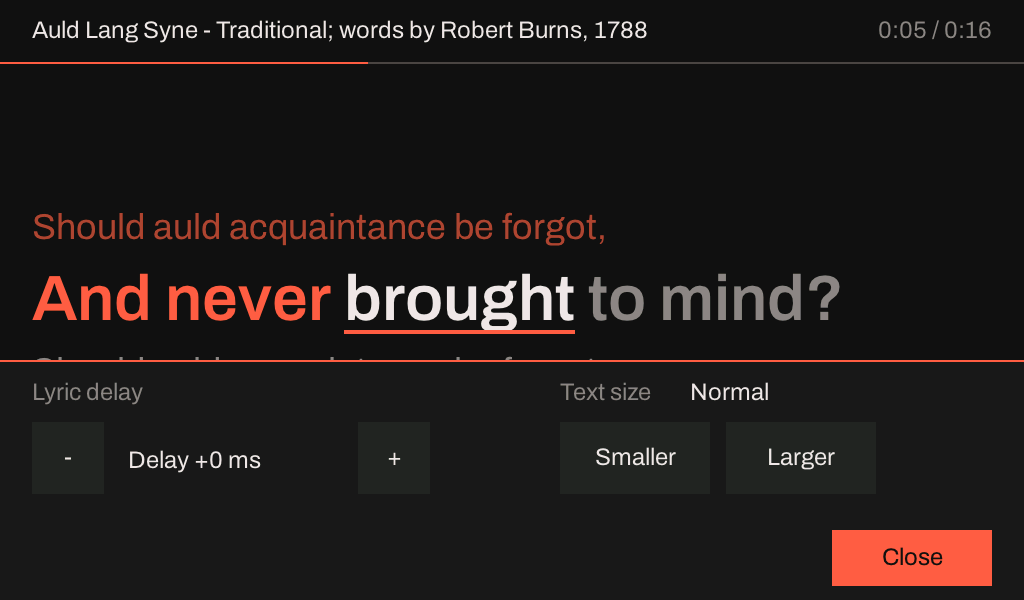
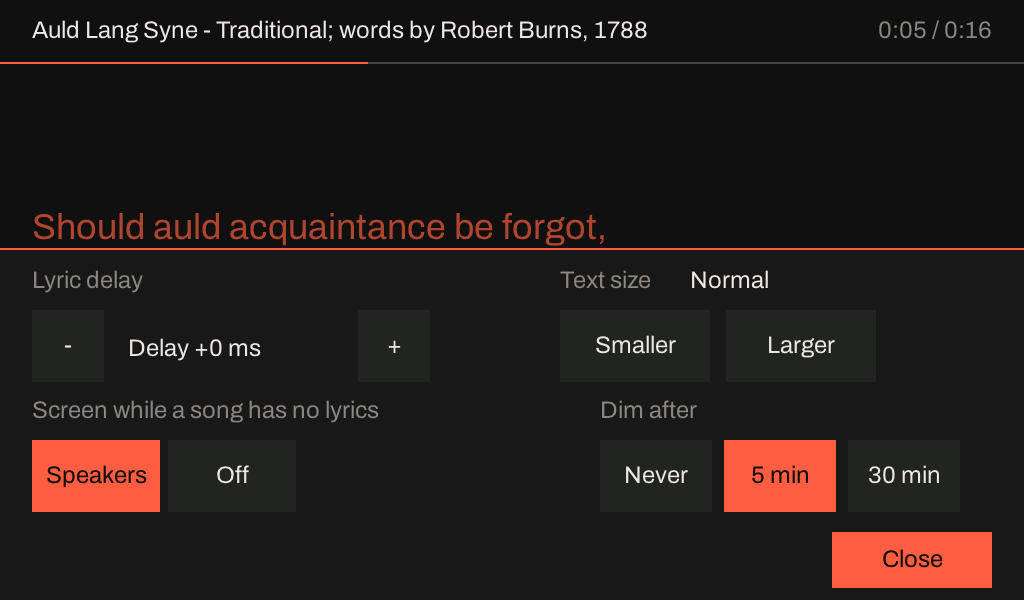
docs(esp32): what the P4X's panel shows while a song has no lyrics, with its pictures
planning/p4x-now-playing.md is the design: what the board knows while a song plays and what it does
not (no title, no artwork, no clock: the sink lists no server role for them and nothing sets the time),
what the glass costs, the options as they were drawn and shown to the owner on 2026-10-20, the owner's
choice of 2026-10-21 (speakers, title card and clock selectable, on by default, a taller sheet, dim
after five minutes and a tap wakes it), how stage 1 is built and what stages 2 and 3 need. The guide's
screen section gains the speakers, the dimmed screen and the two routes; the sheet of every screen has
a new row; the controls picture shows the taller sheet.

diff --git a/planning/p4x-now-playing.md b/planning/p4x-now-playing.md
@@ -1,0 +1,179 @@
+# What the P4X's panel shows while a song with no lyrics plays
+
+!!! note "Status as of 2026-10-21: chosen by the owner; stage 1 built; stages 2 and 3 not started"
+    The panel of [the P4X sink](karaoke-p4x-panel.md) draws the lyrics of the item playing, and the
+    idle screen when nothing plays. A song with no lyrics (most of what a music server plays, and
+    every surround programme that is not karaoke) had one sentence: "No lyrics for this item". The
+    owner, on 2026-10-20: *"on the P4X, when we are not serving lyrics, what should we put on the
+    screen? ... What can we put on the screen that isn't super distracting, and maybe in Adjust we can
+    turn it on, turn it off."* This page is what the board knows while a song plays, the options that
+    were drawn and shown, what the owner chose on 2026-10-21, and how it is built.
+
+    | Stage | What | State |
+    |---|---|---|
+    | 1 | The setting (`GET` and `PUT /now-playing`, `/dim-after`, the Adjust sheet), the **speakers** view, dimming | Built; run on the kit: see [On the kit](#on-the-kit) |
+    | 2 | The **title card**: the sink asks the server for `metadata@v1` and draws what it sends | Not started; [what it needs](#stage-2-the-title-card) |
+    | 3 | The **clock**: the board gets the time and a time zone | Not started; [what it needs](#stage-3-the-clock) |
+
+## What the board knows while a song plays
+
+Read from the code, 2026-10-20; the levels and the layout are the Sendspin player's own status
+(`BurstPlayer::status()`, `firmware/esp-idf/iclforge/include/iclforge/burst_player.hpp`), which the
+kit's `GET /status` already reports.
+
+| Fact | Where it comes from | Known |
+|---|---|---|
+| Each output's peak and RMS over the last 100 ms, in dB of full scale | The burst player's output stage, one pair per output slot, closed every 100 ms | **Yes**, for a coded stream and for PCM |
+| The layout in force, and where each of its speakers is (azimuth, elevation, which is the LFE) | `OutputLayout` (`libs/render/include/iclforge/render/layout.hpp`): a name ("5.1", "7.1.4") or a list | **Yes** |
+| The codec, the coded channel layout (`acmod`, LFE) and the objects a stream carries | The decoder's report, once a unit has decoded | **Yes** for Dolby Digital, Digital Plus and AC-4; PCM has none |
+| The volume | The player's own state | Yes (not used by the screen) |
+| Title, artist, album, the year, **the position in the song and its length** | `metadata@v1` | **No.** The sink's hello lists `_iclforge_player@v1` and `player@v1` and nothing else, so no server sends it. Without lyrics there is no document to carry a title either: the screen's old title line was cleared whenever no lyrics were held, so the sentence **never** showed one |
+| Cover art | `artwork@v1` | **No**, for the same reason, and the board has no image decoder in the image |
+| The time of day | A clock | **No.** Nothing in the firmware sets one (no SNTP, no time zone); a server's clock in Sendspin is a monotonic one, not wall time |
+
+So the one view that needs nothing new is the one that shows the speakers, and it is the one that
+only this board can show: a server does not know what the board is playing to.
+
+## What it may cost
+
+The panel's scan-out reads the frame out of PSRAM sixty times a second whatever is drawn, and that
+is nearly all of what the glass costs a heavy stream: **a tenth of the decoder's time for AC-4 5.1,
+and at layout 5.1 five of eighteen plays glitched with the glass on against one of thirty without a
+scan-out** ([the second session on the kit](karaoke-p4x-panel.md#the-second-session-on-the-kit)).
+Two things follow.
+
+- **Drawing less is not the saving.** A screen that is almost black still costs its scan-out. A
+  view's own cost is its drawing, and it has to stay small: the lyric screen's song filling cost the
+  light streams 5 to 12% of their decode time and the heavy one 0.1 to 1%.
+- **Nothing about a dark screen is known to save the scan-out.** Dimming turns the backlight down;
+  whether the DSI engine can be stopped while the screen is dark (which would make a dark screen
+  the cheapest of all, and might be worth something to the AC-4 5.1 glitches) has not been tried.
+
+How much a view redraws was counted on a computer, which is exact for pixels and says nothing about
+time: the pixels LVGL flushes a second over a minute of sample levels moving as music moves them
+(`panel_preview`, "measure", from the prototype). A **continuous fade** of each speaker's glow in a
+7.1.4 room flushed 1.7 million pixels a second, nine times the lyric screen's song filling (192,000);
+the glow in **five steps, five times a second, with a quarter-step margin before it changes**
+flushed 45,000 (5.1) and 81,000 (7.1.4). That is what stage 1 draws. The kit's own cost is in [On the
+kit](#on-the-kit).
+
+## The options
+
+Drawn on 2026-10-20 from a prototype of each, by the firmware's own screen code
+(`firmware/hearth-sink/preview`); the cover is a placeholder, and the title, the levels and the clock
+are sample data. The prototype is not in the repository: stage 1's view is its speakers view, written
+again, and the others are rebuilt for the stages that need them.
+
+![Today's sentence and five options: speakers, a title card, a cover with the title, a clock, and a dark screen](../docs/hearth/screenshots/p4-now-playing-options.png)
+
+| | Option | Honest today? | Quiet in a dim room? | Cost |
+|---|---|---|---|---|
+| | **Today** | Yes, and says nothing | No: 56 px bright type, and a delay chip that does nothing | Nil |
+| A | **Speakers**: the layout seen from above, each speaker glowing with its own level; a speaker with nothing on it goes hollow | **Yes**, all of it from the board's own status | Yes, if the glow is slow and capped (accent at 55% at its loudest) | A few small redraws; see above |
+| B | **Title card**: title, artist, album, a thin progress line | Only when the server sends them | Yes: text, no motion but the line | The role, its parse, a small copy |
+| C | **Cover and title** | Only with the artwork role, and a decode | The brightest thing a screen can show | A decoder, 260 KB of PSRAM a cover, unmeasured |
+| D | **Clock** | Only with a clock the board does not have | Yes | SNTP, a time zone setting, and the board asking the network for the time |
+| E | **Dark**: backlight to a floor, one line, a touch wakes it | Yes | The quietest | Nothing drawn, but the scan-out stays |
+
+## The decision
+
+The owner, 2026-10-21, after seeing the pictures:
+
+- **Which view:** the owner chooses between **speakers, title card and clock** in Adjust (the cover
+  is not wanted).
+- **On or off out of the box:** **on**, showing the speakers. Off is the old sentence.
+- **Where it lives:** the Adjust sheet gets a **third row and is taller** (352 px, not 240), not a
+  second page.
+- **Dimming:** after **5 minutes** with nothing touched the screen goes to **E**, the dark screen,
+  and **any tap wakes it**. No swipe: there is one view at a time, chosen in Adjust.
+
+What the decision leaves for the stages: the title card and the clock are in the sheet's list only
+once the board can draw them, and `PUT /now-playing title` and `clock` answer 409 until then.
+
+## Stage 1, as built
+
+**The setting.** Two stored values, in NVS beside the others (`np_view`, `np_dim`), read at boot and
+followed at once when they change, with no restart:
+
+| Route | Takes | Default |
+|---|---|---|
+| `GET` and `PUT /now-playing` | `speakers`, `title`, `clock` or `off` | `speakers` |
+| `GET` and `PUT /dim-after` | `never`, or whole minutes from 1 to 240 | `5` |
+
+Both are in the control surface's route list (`GET /api`) on a board that has a panel and answer 404
+on one that has none. A stored number this build does not know (a partition written by a later
+image) is said on the console and the default stands. The sheet's buttons make the same change and
+store it, and the sheet shows what the routes set.
+
+**The speakers view.** The layout in force, from above, front at the top, left on the left
+(`libs/render/include/iclforge/render/room_plan.hpp`, 14 host test cases): ear-level speakers are
+circles, height speakers rounded squares pulled in towards the listener by the cosine of their
+elevation, the LFE a wide box along the bottom, each named inside its shape. Where two would touch
+(a 9.1.6 room has a ceiling speaker over the listener) they are pushed apart; every layout the
+grammar can name is tested to draw no two on each other. A speaker's **core** follows its RMS and its
+**halo** its peak, each in a few steps; an output with nothing on it is a hollow outline, so a dead
+centre is seen. The level rises at once and falls at 14 dB a second (the peak at 30), so the glow
+does not follow every 100 ms window.
+
+The header says what arrives and what it plays on: *Dolby Digital Plus 5.1 to 7.1.4*, *PCM to 2.0*
+(`libs/device/include/iclforge/now_view.hpp`, 11 host test cases). A layout given as a list of
+speakers, too long to say, is "6 outputs". The lyric delay chip in the footer is not shown: it does
+nothing without lyrics.
+
+**Dimming.** With the speakers showing, and nothing touched for the time set (counted from the last
+touch or from when the speakers began to show, whichever is later, so a song started on a panel
+nobody has touched for hours does not start dark), the backlight goes to 4% and a black cover with
+one line over everything (*Playing - Dolby Digital Plus 5.1 to 5.1*). The cover is the object a
+touch lands on, so the tap that wakes the screen does not press a button under it; the touch is
+activity, and the next frame takes the cover away and puts the backlight back to 80%. Dimming is for
+this screen only: the lyric screens and the idle screen are not dimmed (see [Open](#open)).
+
+**What the screen reads.** `sendspin_now_playing()` (`sendspin.hpp`): one read of the player's status
+under its own lock, five times a second, copied into a buffer that keeps its capacity so that a read
+allocates nothing from the heap a decoder leaves little of. The room is parsed again only when the
+layout text changes.
+
+![The speakers in a 5.1 room](../docs/hearth/screenshots/p4-panel-speakers-5-1.png)
+![The speakers in a 7.1.4 room](../docs/hearth/screenshots/p4-panel-speakers-7-1-4.png)
+![The Adjust sheet with its third row](../docs/hearth/screenshots/p4-panel-controls.png)
+![The dark screen](../docs/hearth/screenshots/p4-panel-dimmed.png)
+
+## Stage 2: the title card
+
+The sink lists `metadata@v1` in its hello. The player's session already runs the role for a client
+that lists it (`libs/sendspin/src/player_session.cpp`: the `server/state` object reaches
+`PlayerListener::on_server_state()`), and `kSinkMaxJsonTokens` (512) covers the largest message a
+server sends. What is new on the board is a small store of what it says (title, artist, album,
+progress with the duration) under the player's lock, and the view. The song's position is the
+state's `progress` advanced on the board's own clock (`metadata::position_ms`). Music Assistant sends
+the role to a client that lists it; **the first run with the owner's server decides what it sends**,
+and the view says nothing it was not told. Until the role is listed no server sends anything, so
+the title card would be empty: that is why it waits.
+
+When the title is known the speakers view uses it too: the header becomes *Title - Artist* with the
+time at the right and the progress line under it, as the lyric screens' header is.
+
+## Stage 3: the clock
+
+The board has no time. What stage 3 adds, with the defaults I would take and the owner can change:
+
+- **SNTP, started only when the clock view is the one chosen** (the board contacts no time server
+  otherwise), with the servers the router hands out over DHCP and `pool.ntp.org` behind them.
+- **A time zone** as a POSIX string (`AEST-10AEDT,M10.1.0,M4.1.0/3`), stored in NVS and set by
+  `PUT /timezone`; with none set the clock says UTC and says so. IDF has no zone database, and a
+  list of names would be a table to keep.
+- A 24-hour clock and the date, in the muted tone; until the first answer from a time server the
+  view shows nothing but the stream's heading, and never a time it made up.
+
+## Open
+
+- **The idle screen is not dimmed.** It is on for hours too (Q7 of the panel's plan). The owner's
+  answer was about this screen; whether idle follows is a question for the owner.
+- **Does a dark screen save the scan-out?** Stopping the DSI engine while the cover is up is the
+  experiment; the kit's AC-4 5.1 glitches are the reason to try it.
+- **Brightness** is still not a setting (plan D6): the sheet has room for a fourth row only by being
+  taller again or by a second page.
+
+## On the kit
+
+*To be filled with what was run on the kit: see the pull request.*

diff --git a/docs/hearth/sink-esp32-p4.md b/docs/hearth/sink-esp32-p4.md
@@ -135,7 +135,7 @@ the first slot, and its cause is not known.
 
 ### The screen
 
-![The panel's screens on one sheet: singing, a duet, an instrumental break, a file timed by line, Hebrew, Russian and Greek, a script the fonts lack, idle with no server, with a pairing code and connected, held and not started, no lyrics, plain text, and the controls](screenshots/p4-panel-sheet.png)
+![The panel's screens on one sheet: singing, a duet, an instrumental break, a file timed by line, Hebrew, Russian and Greek, a script the fonts lack, idle with no server, with a pairing code and connected, held and not started, no lyrics with the screen off, plain text, the controls, and the speakers while a song has no lyrics and dimmed](screenshots/p4-panel-sheet.png)
 
 The board shows the lyrics of the item playing, against the sound **the board** is playing: the
 server sends the document and where in it the sound is, and the board follows on its own clock, which
@@ -161,12 +161,47 @@ apart. The picture above and the others on this page are drawn by the firmware's
 | ![Russian and Greek](screenshots/p4-panel-cyrillic-greek.png) | **Cyrillic or Greek.** Drawn as Latin is, in Noto Sans behind Archivo, with the same fill |
 | ![A script the fonts lack](screenshots/p4-panel-script.png) | **A script the fonts cannot draw** (Arabic here). One sentence in the line's place; the title in it is left out; a music note is dropped |
 | ![Plain text](screenshots/p4-panel-plain.png) | **A file with no times.** The text, scrolled by touch, not followed |
-| ![No lyrics](screenshots/p4-panel-no-lyrics.png) | **Playing, and the server sent no lyrics** |
-| ![The controls](screenshots/p4-panel-controls.png) | **Adjust.** The lyric delay in 50 ms steps and the text size; put away after eight seconds untouched |
+| ![The speakers](screenshots/p4-panel-speakers-5-1.png) | **Playing, and no lyrics are held** ([below](#a-song-with-no-lyrics)). The speakers of the layout in force, each glowing with its own level |
+| ![No lyrics](screenshots/p4-panel-no-lyrics.png) | **The same with that screen turned off.** The sentence this screen had before |
+| ![The controls](screenshots/p4-panel-controls.png) | **Adjust.** The lyric delay in 50 ms steps, the text size, the screen for a song with no lyrics and when it dims; put away after eight seconds untouched |
 
 **Controls.** Touch changes only what the board owns: its lyric delay (±1,000 ms), its text size
-(Smaller, Normal or Larger, which the sheet says beside its buttons), and (later) its brightness. Which vocals sound and the reproduction are the server's settings and are
+(Smaller, Normal or Larger, which the sheet says beside its buttons), what its screen shows while a
+song has no lyrics, when that dims, and (later) its brightness. Which vocals sound and the reproduction are the server's settings and are
 shown, not changed, until the role has a way to carry a request back.
+
+#### A song with no lyrics
+
+Most of what is played has none. While a stream plays and the board holds no lyrics, the panel shows
+the **speakers**: the room the layout in force describes, seen from above with the front at the top.
+Ear-level speakers are circles, height speakers rounded squares, the LFE a wide box along the bottom,
+and each speaker glows with its own level, from the board's own measure of the last 100 ms. A
+speaker with nothing on it is a hollow outline, so a dead output can be seen. The line above says
+what arrives and what it is played on (*Dolby Digital Plus 5.1 to 7.1.4*, *PCM to 2.0*).
+
+![The speakers in a 7.1.4 room](screenshots/p4-panel-speakers-7-1-4.png)
+
+It is meant to be left on for hours in a dim room: the glow moves in a few steps, slowly (it rises
+at once and falls at 14 dB a second), and is never brighter than the accent at 55%. **After five
+minutes with nothing touched** (the time is Adjust's, or `PUT /dim-after`: `never`, or whole minutes
+from 1 to 240) the backlight goes to 4% and a black screen with one line is over everything; any tap
+brings the speakers back, and the tap does not also press what is under it. Only this screen dims:
+the lyric screens and the idle screen do not.
+
+![The dimmed screen](screenshots/p4-panel-dimmed.png)
+
+Which screen shows is the owner's: `speakers` (the default) or `off`, which is the old sentence;
+`title` (title, artist and a progress line, once the sink asks the server for them) and `clock` (once
+the board has the time) are planned and refused until then
+([planning/p4x-now-playing.md](https://github.com/iainchesworthlabs/iclforge/blob/main/planning/p4x-now-playing.md)).
+
+| Route | Takes | Default |
+|---|---|---|
+| `GET` and `PUT /now-playing` | `speakers`, `title`, `clock` or `off` | `speakers` |
+| `GET` and `PUT /dim-after` | `never`, or minutes from 1 to 240 | `5` |
+
+Both are stored on the board and take effect at once, with no restart; a board with no panel answers
+404. `GET :8081/panel` says which `view` is chosen and whether the screen is `dimmed`.
 
 **Fonts.** Archivo, the apps' own, for Latin (Basic, Latin-1 and Extended-A, most of Extended-B and
 the Vietnamese block, and the punctuation and currency signs a lyric uses); Noto Sans behind it for

diff --git a/planning/karaoke-p4x-panel.md b/planning/karaoke-p4x-panel.md
@@ -326,7 +326,7 @@ wrap past two rows, so a long line stays whole rather than scrolling.
 | S4 | **Instrumental gap** | Between lines (or before the first) for 4 s or more | A single large music note and four dots that go out one a second, so a singer sees the next line coming; the next line is shown under it |
 | S5 | **Line-timed** | The file times lines, not words | The current line whole, in accent, bold; nothing invented for the words (the rule since phase 1) |
 | S6 | **Plain text** | The file has no times | The text, scrollable by touch, not followed; a chip says "not timed" |
-| S7 | **No lyrics** | Playing, none held | The item's title if the server sent one, "No lyrics for this item" |
+| S7 | **No lyrics** | Playing, none held | **The speakers** of the layout in force, each glowing with its own level; the owner's choice of view, and "No lyrics for this item" when it is off: [planning/p4x-now-playing.md](p4x-now-playing.md). (The title was never shown: the board is sent none without a lyrics file.) |
 | S8 | **Right to left** | A line whose first strong letter is Hebrew | Right-aligned, words flow right to left, the fill runs right to left within a word |
 | S8b | **A script the fonts lack** | A line with a letter the six font files do not carry (Arabic, CJK, Indic, Thai, polytonic Greek) | One sentence in its place, "This line is in a script this screen cannot show."; the title in it is left out; a music note is dropped |
 | S9 | **Controls sheet** | A tap on the gear | Lyric delay - / +, text size, brightness, next lines; 72 px targets; it hides itself after 8 s |
@@ -840,7 +840,7 @@ and then joins the Wi-Fi, the cable going on asking).
 | Q4 | Tearing with one frame buffer | The kit; two buffers cost 1.2 MB of PSRAM. **Looked at 2026-10-20**: the owner watched a karaoke play, with the Adjust sheet in use, and said it appeared and looked fine; no tearing was reported, and it was not filmed or measured. Not settled for a fast-moving fill |
 | Q5 | PSRAM bandwidth under the decoder's XIP fetches | **Answered on the kit 2026-10-20**: the glass costs the decoder a standing 1.3% (AC-3), 5.9% (E-AC-3) and about 10% (AC-4 5.1) against `panel-null`, and filling the screen adds drawing cost that is 5 to 12% on the light streams and 0.1 to 1% on AC-4 5.1 ([the second session](#the-second-session-on-the-kit)). At layout 5.1 the AC-4 stream glitched on 5 of 18 plays with the glass against 1 of 30 without a scan-out. Not tried: a slower refresh |
 | Q6 | A touch control for the vocals needs the role to carry a request back to the server | A protocol decision, its own PR |
-| Q7 | Auto-dim and a screensaver for a screen that is on for hours | Product, after the kit; the backlight PWM is there |
+| Q7 | Auto-dim and a screensaver for a screen that is on for hours | **Answered for the no-lyrics screen, 2026-10-21**: after 5 minutes with nothing touched it goes to a dark screen and a tap wakes it ([planning/p4x-now-playing.md](p4x-now-playing.md)); the lyric screens and the idle screen do not dim, which is open |
 | Q8 | CJK, Arabic and polytonic Greek | A font subset and shaping; not in this work (Greek and Cyrillic are in, 2026-10-12) |
 | Q9 | The image links LVGL (MIT) and three OFL fonts and ships no notices file of its own, as it does not for mbedTLS or `esp_hosted` | **Answered for the font and LVGL, 2026-10-12** (the owner: the font's licence goes where the licences are shown): Hearth's NOTICES.txt, which its About, Licences shows, names LVGL and the three typefaces (`hearth-lvgl.txt`, `hearth-fonts.txt`), and `check_hearth_package.py` requires them. The ESP-IDF components the images carry (Apache-2.0 and others, with picolibc's many BSD-style licences, LVGL's stb_truetype, and the Montserrat font LVGL's default theme links) are in the same notices, in `hearth-firmware.txt` and `notices/licences/ESP-IDF-components.txt` (made by `tools/generators/gen_esp_idf_notices.py` from an ESP-IDF checkout and the lvgl component; `tools/ci/test_firmware_notices.py` fails when the ESP-IDF the workflows build with is another) |
 | Q10 | The lyric **document** the player holds is in internal RAM, about six times its text once held and ten at the peak (measured by the lyrics verification session on 2026-10-12: P4a at 233 KB free, a 16,000-byte document left 66 KB and once broke the play; S3 and C6 far less). The screen's own copies (the visible rows, a file with no times as plain text, the title and the names) are in LVGL's heap, which is PSRAM (`main/panel/lvgl/lv_alloc.hpp`: `LvString`, `LvVector`, `LvMap`), as is the plain-text label it builds, so a 12,000-byte text takes none of the internal RAM the decoder leaves; the document is the player's, and a PSRAM arena for it is the fix on a board that has the PSRAM (the lyrics verification session's `PsramScope`, #1396) | The player's lyrics budget (that session's change in `sendspin.cpp`), then an arena |

diff --git a/firmware/hearth-sink/README.md b/firmware/hearth-sink/README.md
@@ -528,6 +528,10 @@ configurations set 80; the default is 0, none), the component's
 | `PUT /network` | body: an SSID, a newline, then the passphrase. Stored for the next boot; the station stays on the network it is already associated with. Improv over the serial port is the other way in, and the one a board with no network at all needs. |
 | `GET /network-preference` | `auto`, `ethernet` or `wifi`, as text, on a board with a cable and a Wi-Fi station ([Ethernet](#ethernet)); `404` on a board with one network |
 | `PUT /network-preference` | body: `auto`, `ethernet` or `wifi`. Stored, and acted on at once with no restart. `400` for any other word, `409` where there is nothing to choose between, or where `wifi` has no network stored to join. A change to one interface is undone if that interface does not come up |
+| `GET /now-playing` | `speakers`, `title`, `clock` or `off`, as text, on a board with a panel: what the screen shows while a song has no lyrics ([planning](../../planning/p4x-now-playing.md)); `404` on a board with none |
+| `PUT /now-playing` | body: one of those words. Stored, and followed at once with no restart. `400` for any other word, `409` where there is no panel or the build cannot draw that view (`title` and `clock` are refused until they are built) |
+| `GET /dim-after` | `never`, or the minutes with nothing touched after which that screen dims, as text, on a board with a panel; `404` on a board with none |
+| `PUT /dim-after` | body: `never`, or whole minutes from 1 to 240. Stored, and followed at once. `400` for any other body, `409` where there is no panel |
 | `GET /pairing` | the servers a Sendspin player is paired with, as JSON: each one's `server_id` and name, whether it is connected, and which played last. `404` on a board with no Sendspin player |
 | `POST /pairing` | body: `reset`, `cancel` or `forget`, for a Sendspin player's pairing ([Pairing](#pairing)), or `forget` and a space and a `server_id` from `GET /pairing`, for that server alone. `400` for any other body, `404` for a `server_id` the board has no pairing with, `409` on a board with no Sendspin player. |
 | `GET /slot-width` | the slot width in bits, 16 or 32 |

diff --git a/CHANGELOG.md b/CHANGELOG.md
@@ -44,6 +44,18 @@ The sections below contain the complete change list and fixes.
 
 ### Added
 
+**What the P4X's panel shows while a song has no lyrics**
+
+- **The speakers of the layout in force, each glowing with its own level**, in place of the sentence "No lyrics for this
+  item": a plan of the room from above (ear-level speakers as circles, height speakers as squares, the LFE as a box, each
+  named), the glow following the board's own peak and RMS over the last 100 ms in a few slow steps, a speaker with nothing on
+  it hollow, and a line saying what arrives and what it is played on (*Dolby Digital Plus 5.1 to 7.1.4*). After five minutes
+  with nothing touched the backlight goes to 4% under a black screen with one line, and any tap wakes it. `GET` and `PUT
+  /now-playing` (`speakers`, `off`; `title` and `clock` are planned) and `GET` and `PUT /dim-after` (`never`, or minutes)
+  set it, as does the Adjust sheet, which is taller and has a third row for them. The plan is
+  `planning/p4x-now-playing.md`; the title card and the clock need the sink to ask the server for metadata and the board to
+  be given the time, and are not built.
+
 **The ESP32-P4X kit's Ethernet port: a sink on PoE, with the Wi-Fi as its way out**
 
 - **The `p4-rev3` Hearth sink uses the kit's RJ45 port as well as its Wi-Fi.** The chip's EMAC and the

diff --git a/firmware/esp-idf/iclforge/README.md b/firmware/esp-idf/iclforge/README.md
@@ -26,7 +26,7 @@ live in the library because it is made of FreeRTOS:
   surface over whatever owns a player - `GET /status`, `GET /hardware`, `POST /play` with a
   location, `POST /stop`, `POST /volume`, `GET`/`PUT /layout` - on `esp_http_server`, with
   callbacks the owner supplies so the server's task never touches the player itself. The board's
-  own settings (`/name`, `/slot-width`, `/wiring`, `PUT /network`, `/network-preference`), a Sendspin player's pairings
+  own settings (`/name`, `/slot-width`, `/wiring`, `PUT /network`, `/network-preference`, and on a board with a panel `/now-playing` and `/dim-after`), a Sendspin player's pairings
   (`/pairing`) and updates over the network (`/firmware`, `/firmware/mode`, `/firmware/rollback`,
   `/firmware/coredump`, `POST /restart`, and the console's recent output at `GET /log`) go
   through the same server. `GET /` is a web page for the routes, and the only client they need:
